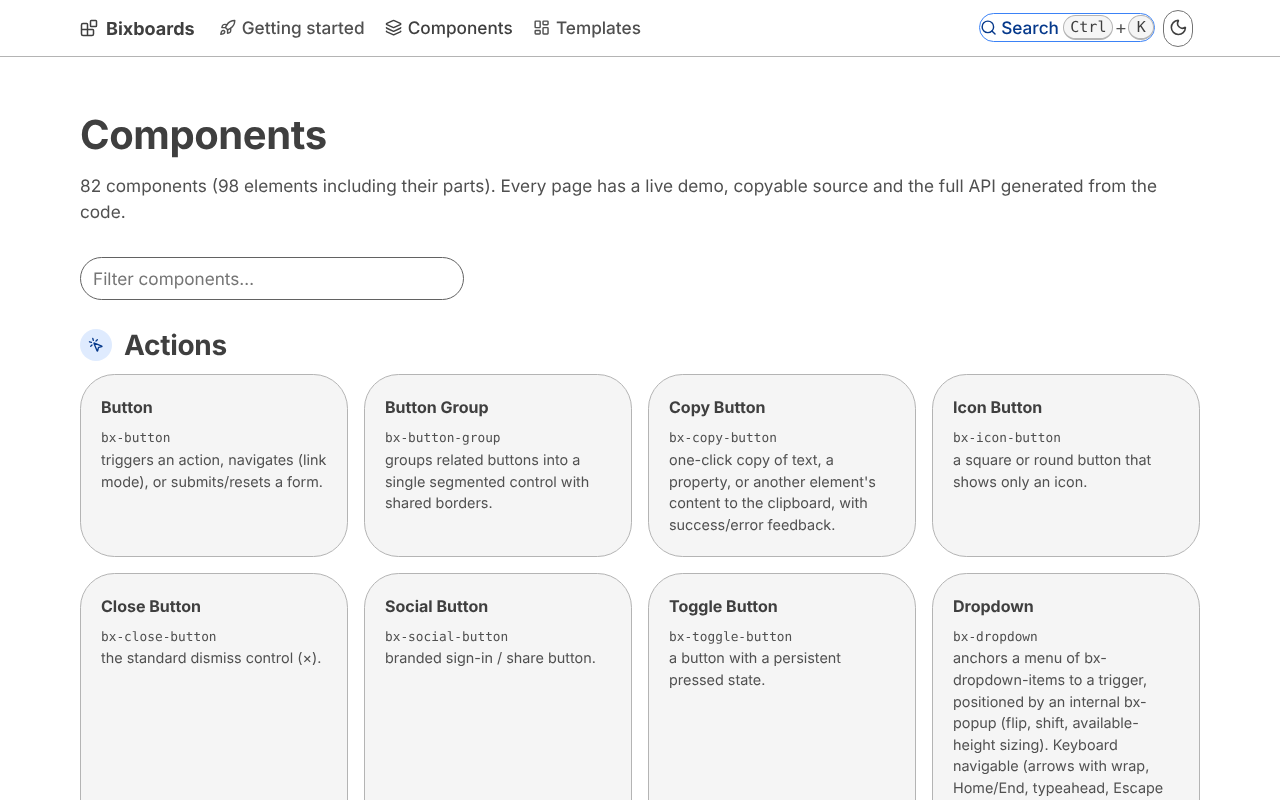
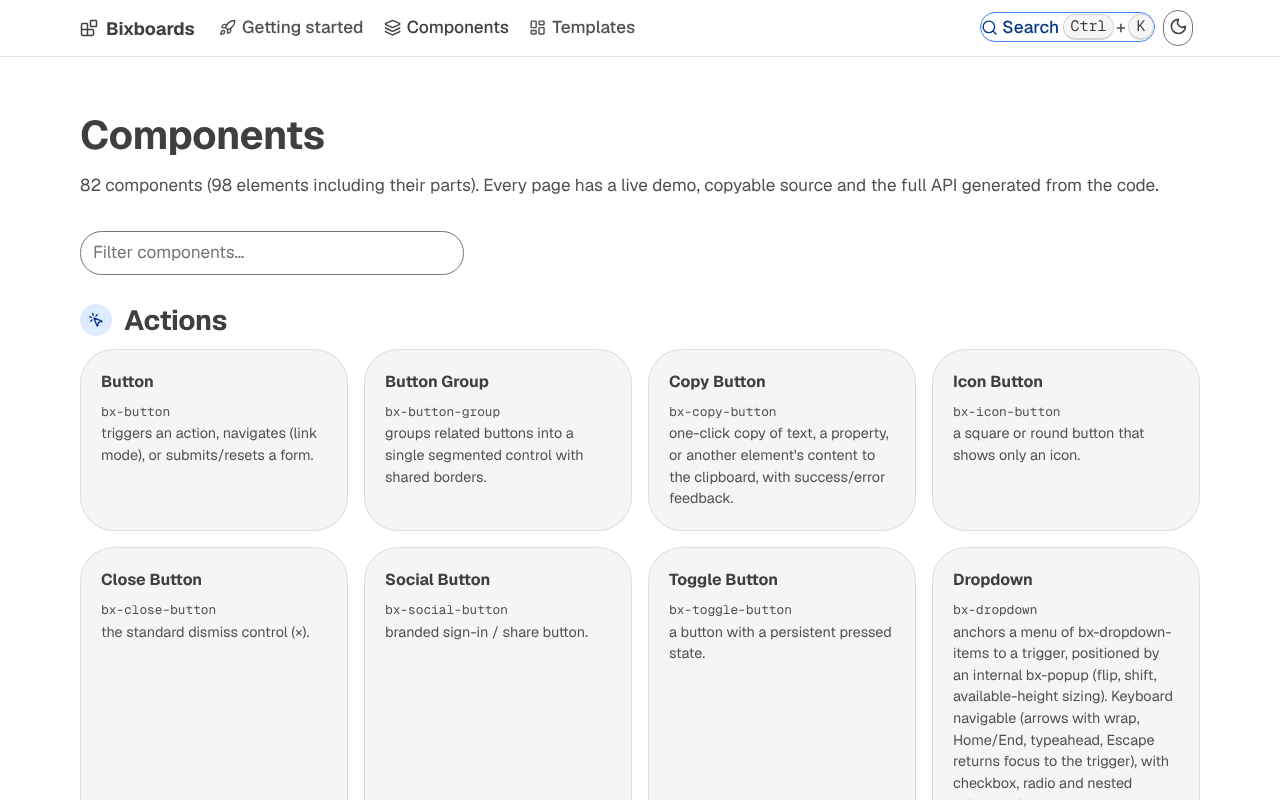
Lighten website borders and switch to self-hosted Geist fonts
- Board theme: border.subtle moves from neutral.300 to neutral.200 (no contrast
  rule applies to it); border.base/strong keep their WCAG 3:1 minimum so form
  controls stay accessible. Site chrome (cards, frames, tables, dividers,
  header, footer) uses a softened hairline derived from the token, and hover
  states no longer jump to the strong border.
- Fonts: Geist and Geist Mono, self-hosted via @fontsource-variable (no Google
  Fonts request); set through the board theme's font family tokens so every
  component and code block picks them up.
- Refresh docs/screenshots.

Claude-Session: https://claude.ai/code/session_018r5qpzamBt5dVBu5R8qC7N

diff --git a/packages/website/src/styles/global.css b/packages/website/src/styles/global.css
@@ -1,3 +1,5 @@
+@import '@fontsource-variable/geist';
+@import '@fontsource-variable/geist-mono';
 @import './generated/tokens.css';
 
 *,
@@ -9,6 +11,9 @@ html {
   scroll-behavior: smooth;
 }
 body {
+  /* Decorative hairlines: the subtle border token, softened. Control borders keep --bx-border-base
+     (WCAG 3:1 non-text contrast); only chrome that is not a control uses this. */
+  --line: color-mix(in srgb, var(--bx-border-subtle) 70%, transparent);
   margin: 0;
   background: var(--bx-surface-base);
   color: var(--bx-text-primary);
@@ -34,7 +39,7 @@ header.site {
   z-index: 10;
   background: color-mix(in srgb, var(--bx-surface-base) 85%, transparent);
   backdrop-filter: blur(10px);
-  border-bottom: 1px solid var(--bx-border-subtle);
+  border-bottom: 1px solid var(--line);
 }
 header.site .wrap {
   display: flex;
@@ -98,7 +103,7 @@ section.block p.lead {
 }
 .tile {
   display: block;
-  border: 1px solid var(--bx-border-subtle);
+  border: 1px solid var(--line);
   border-radius: var(--bx-radius-l);
   padding: 1.25rem;
   background: var(--bx-surface-subtle);
@@ -127,7 +132,7 @@ pre.code {
   overflow-x: auto;
 }
 footer.site {
-  border-top: 1px solid var(--bx-border-subtle);
+  border-top: 1px solid var(--line);
   padding-block: 2rem;
   color: var(--bx-text-secondary);
 }
@@ -138,7 +143,7 @@ footer.site {
   margin-bottom: 1.5rem;
 }
 .chip {
-  border: 1px solid var(--bx-border-subtle);
+  border: 1px solid var(--line);
   border-radius: 999px;
   padding: 0.25rem 0.75rem;
   font-size: 0.85rem;
@@ -246,7 +251,7 @@ section.block.alt {
   color: var(--bx-text-secondary);
 }
 .tile:hover {
-  border-color: var(--bx-border-strong);
+  border-color: var(--bx-border-subtle);
   text-decoration: none;
 }
 .filter input {
@@ -256,7 +261,7 @@ section.block.alt {
   font: inherit;
   color: var(--bx-text-primary);
   background: var(--bx-surface-base);
-  border: 1px solid var(--bx-border-strong);
+  border: 1px solid var(--bx-border-base);
   border-radius: var(--bx-radius-m);
 }
 .category h2 {
@@ -313,7 +318,7 @@ section.block.alt {
   scroll-margin-top: 4.5rem;
   margin: 2.5rem 0 0.75rem;
   padding-block-start: 1rem;
-  border-top: 1px solid var(--bx-border-subtle);
+  border-top: 1px solid var(--line);
 }
 .doc .lead {
   color: var(--bx-text-secondary);
@@ -329,7 +334,7 @@ section.block.alt {
 }
 .stage {
   padding: 1.5rem;
-  border: 1px solid var(--bx-border-subtle);
+  border: 1px solid var(--line);
   border-radius: var(--bx-radius-l);
   background: var(--bx-surface-base);
   overflow: auto;
@@ -382,7 +387,7 @@ td {
   text-align: start;
   vertical-align: top;
   padding: 0.5rem 0.75rem;
-  border-bottom: 1px solid var(--bx-border-subtle);
+  border-bottom: 1px solid var(--line);
 }
 th {
   color: var(--bx-text-secondary);
@@ -395,7 +400,7 @@ th {
   gap: 1rem;
   margin-block-start: 3rem;
   padding-block-start: 1rem;
-  border-top: 1px solid var(--bx-border-subtle);
+  border-top: 1px solid var(--line);
 }
 .prose {
   max-inline-size: 52rem;
@@ -483,7 +488,7 @@ section.block h2 {
 
 /* Window frame that holds a live template or block. */
 .frame {
-  border: 1px solid var(--bx-border-subtle);
+  border: 1px solid var(--line);
   border-radius: var(--bx-radius-l);
   background: var(--bx-surface-subtle);
   box-shadow: var(--bx-shadow-m);
@@ -494,7 +499,7 @@ section.block h2 {
   align-items: center;
   gap: 0.5rem;
   padding: 0.625rem 1rem;
-  border-bottom: 1px solid var(--bx-border-subtle);
+  border-bottom: 1px solid var(--line);
   background: var(--bx-surface-base);
   font-size: 0.875rem;
   color: var(--bx-text-secondary);
@@ -532,7 +537,7 @@ section.block h2 {
 }
 .panel {
   padding: 1rem;
-  border: 1px solid var(--bx-border-subtle);
+  border: 1px solid var(--line);
   border-radius: var(--bx-radius-m);
   background: var(--bx-surface-base);
   min-inline-size: 0;
@@ -564,7 +569,7 @@ section.block h2 {
 .auth .or::after {
   content: '';
   flex: 1;
-  border-top: 1px solid var(--bx-border-subtle);
+  border-top: 1px solid var(--line);
 }
 .board {
   display: grid;
@@ -676,14 +681,14 @@ header.site .tools {
   gap: 0.5rem;
   margin-block-end: 1.5rem;
   padding: 0.25rem 0.75rem 0.25rem 0.375rem;
-  border: 1px solid var(--bx-border-subtle);
+  border: 1px solid var(--line);
   border-radius: 999px;
   background: var(--bx-surface-base);
   color: var(--bx-text-secondary);
   font-size: 0.875rem;
 }
 .announce:hover {
-  border-color: var(--bx-border-strong);
+  border-color: var(--bx-border-subtle);
   text-decoration: none;
 }
 .install {
@@ -692,7 +697,7 @@ header.site .tools {
   gap: 0.5rem;
   margin-block-start: 1.5rem;
   padding: 0.25rem 0.5rem 0.25rem 1rem;
-  border: 1px solid var(--bx-border-subtle);
+  border: 1px solid var(--line);
   border-radius: 999px;
   background: var(--bx-surface-base);
   color: var(--bx-text-secondary);
@@ -749,7 +754,7 @@ section.block > .wrap > .eyebrow {
   justify-items: center;
   gap: 0.5rem;
   padding: 3rem 1.5rem;
-  border: 1px solid var(--bx-border-subtle);
+  border: 1px solid var(--line);
   border-radius: var(--bx-radius-l);
   text-align: center;
   background:
@@ -794,7 +799,7 @@ footer.site .foot nav a {
 }
 footer.site .legal {
   padding-block-start: 1rem;
-  border-top: 1px solid var(--bx-border-subtle);
+  border-top: 1px solid var(--line);
   font-size: 0.875rem;
 }
 @media (max-width: 40rem) {
